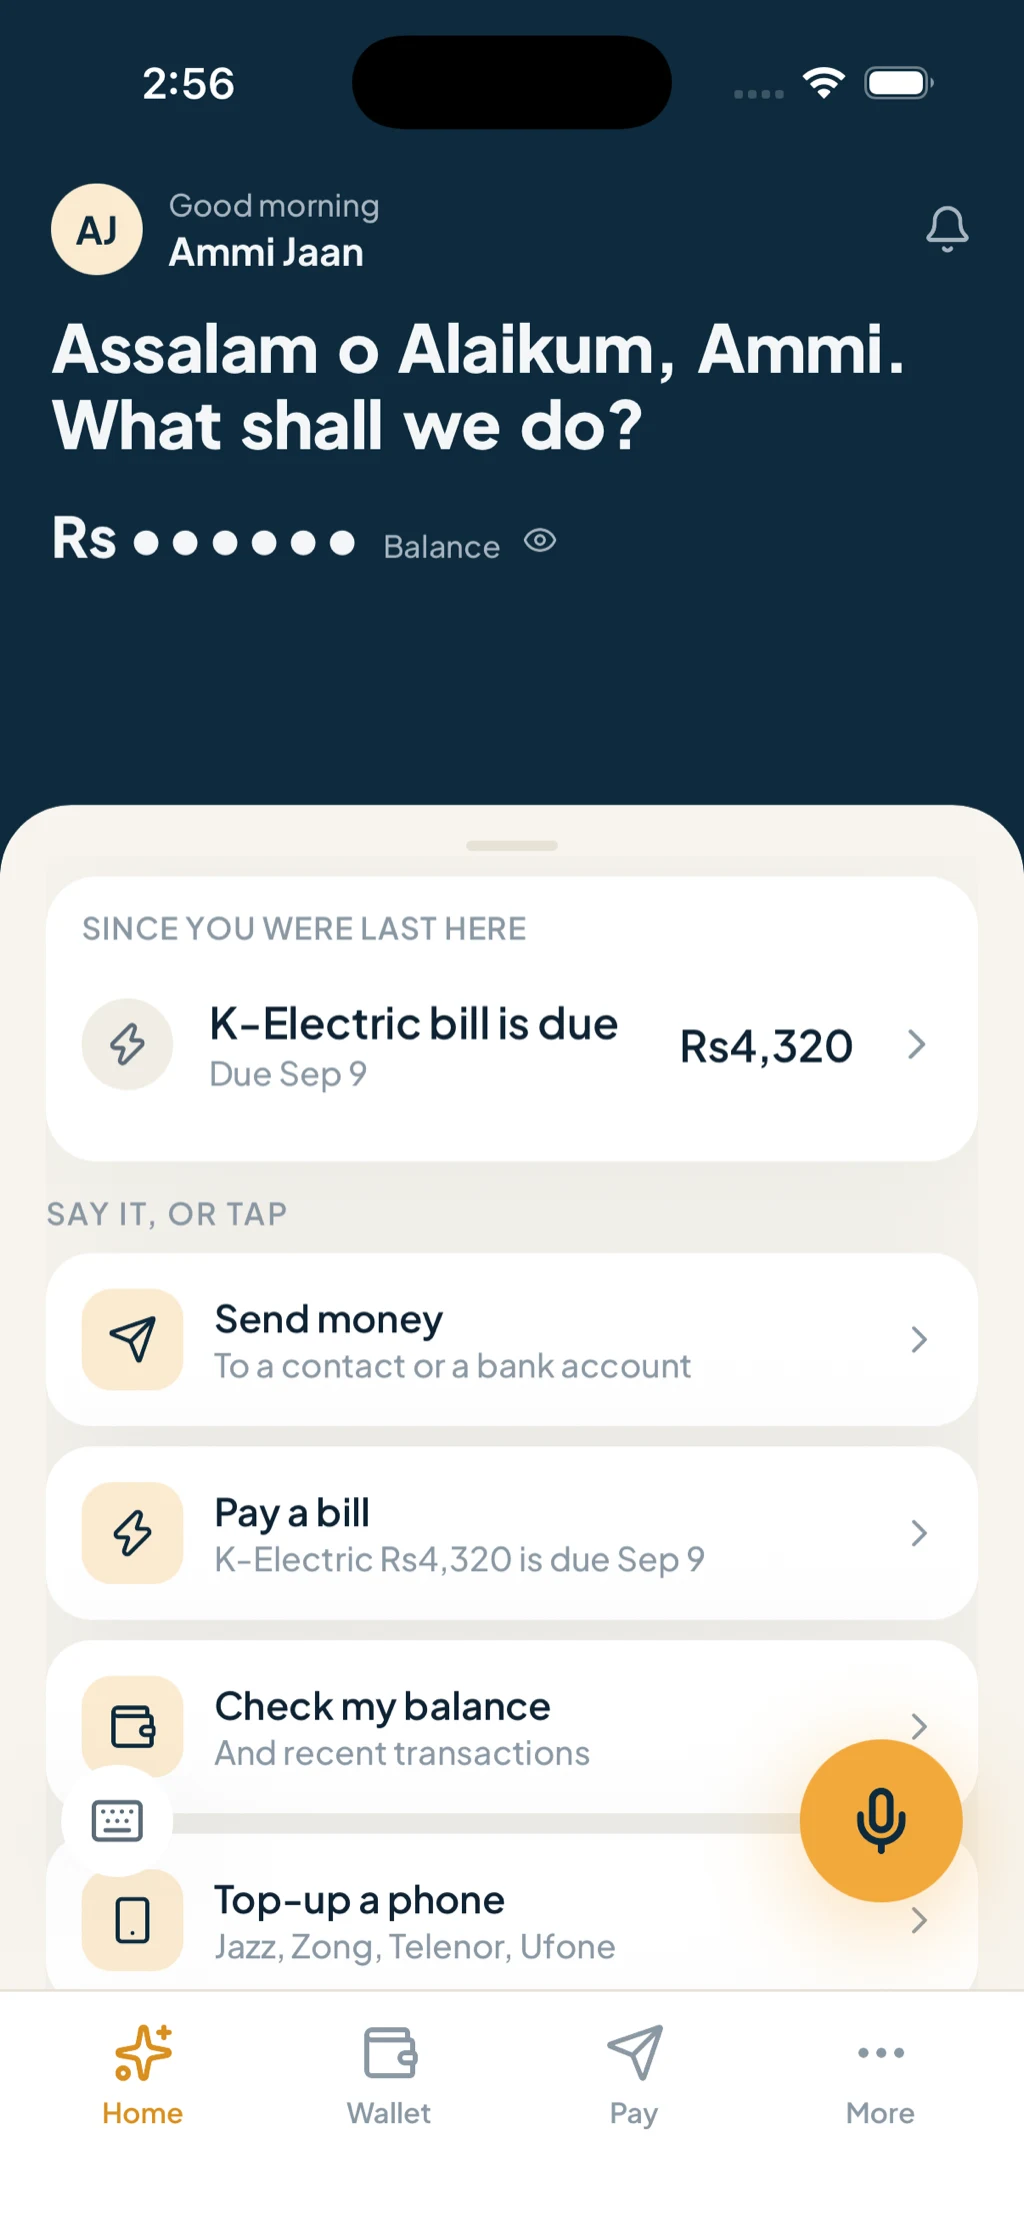
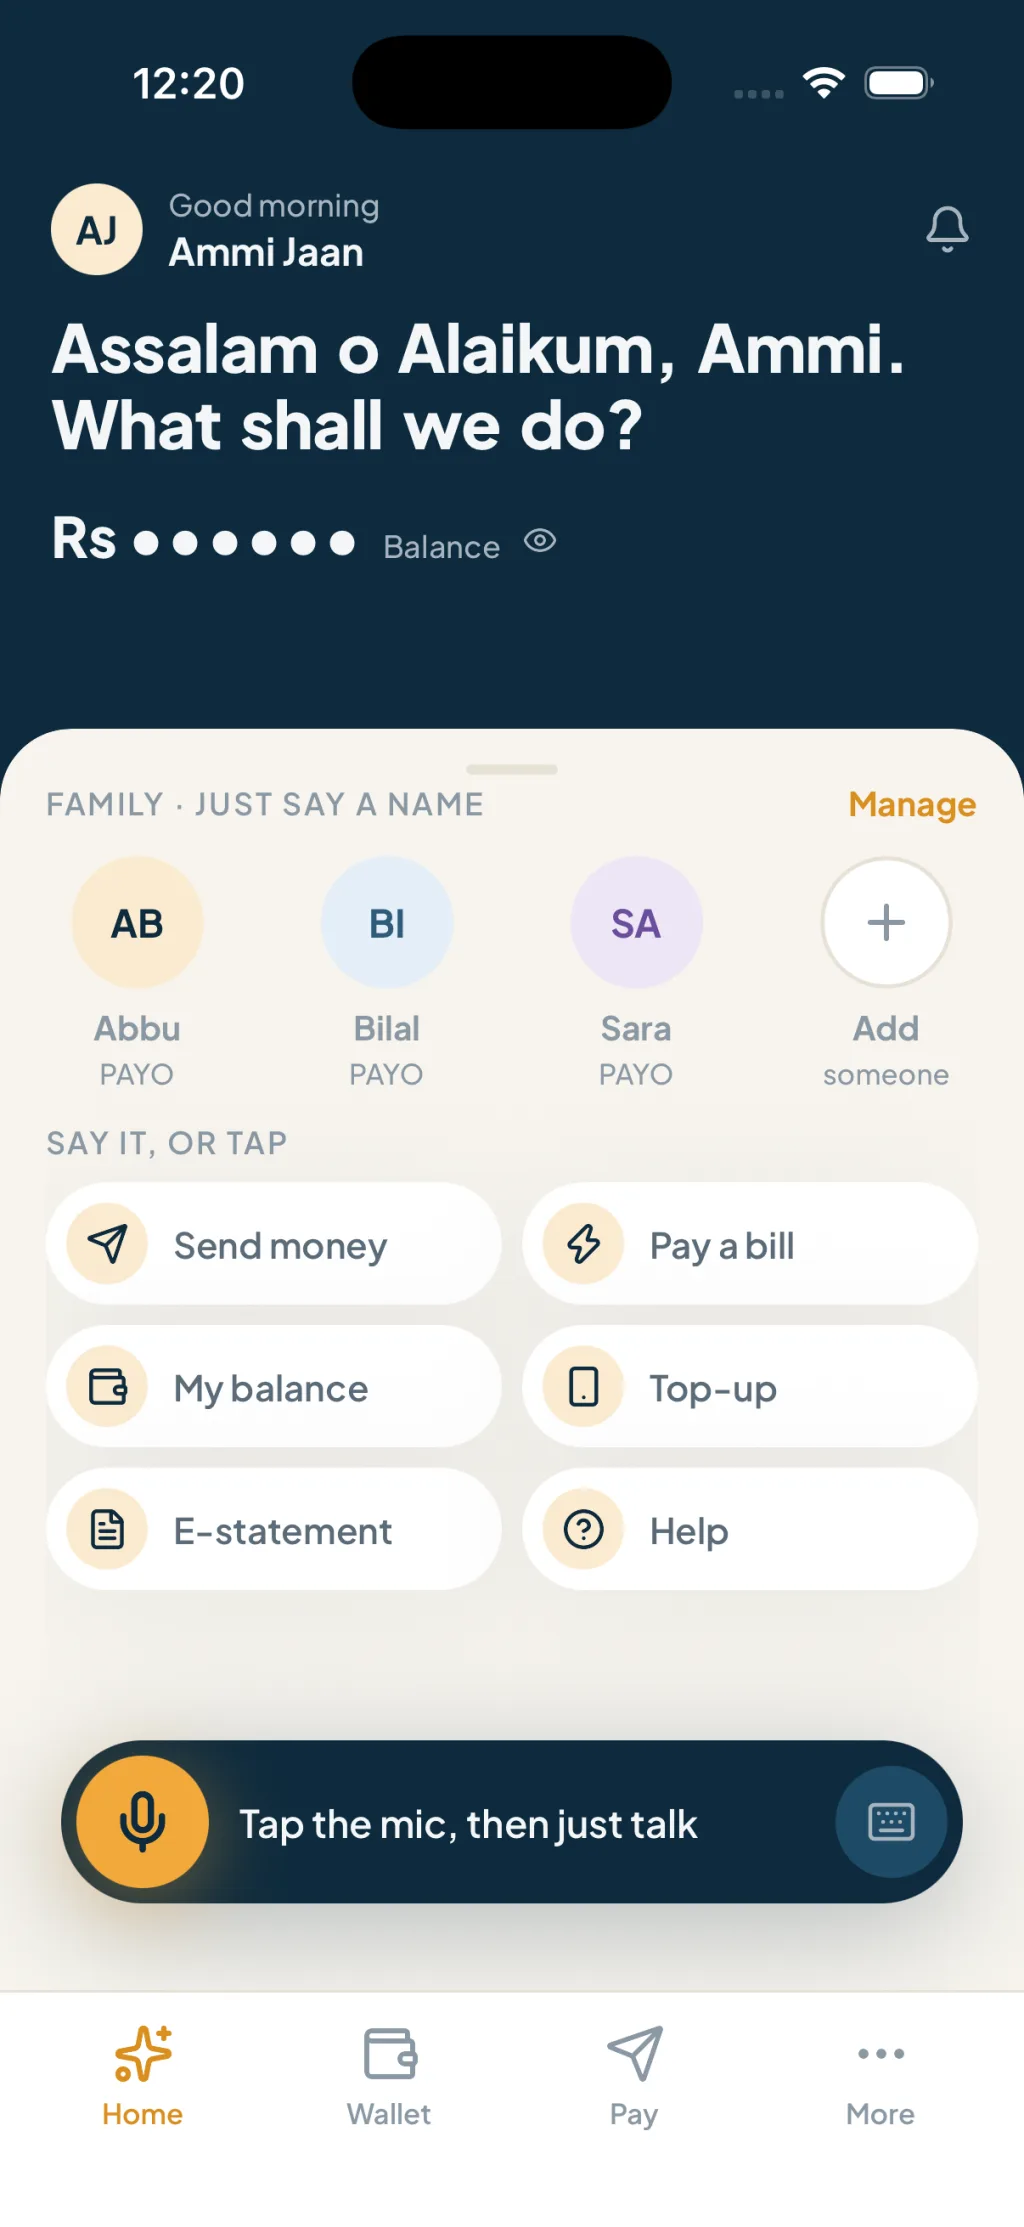
v8: saved recipient goes straight to the PIN; Urdu-script names resolve; nickname on the card; docs + site captures
AI: a single saved-recipient match with a spoken amount calls send_money in the
same turn (prompt rule + tool text + a deterministic nudge gated on 'no card
yet'); live routing gate rows F1/F2/F3 pass in English and Urdu.
Backend: GET /recipients?q= matches Urdu-script names through the linked
user's urduName; the confirmation card names a saved recipient the way the
user does ('Abbu (Abdul Rehman)'); the seeded due bill sits five days out.
Mobile: typed composer closes after sending; greet head 300; nickname
initials in the family row; shorter suggestion titles.
Docs: demo script Flows A0 (family) and S (e-statement), README v8 notes,
demo-time gotchas. Site: fresh v8 captures (home, listening, family PIN +
success, statement, wallet).

diff --git a/services/backend/src/controllers/transfersController.ts b/services/backend/src/controllers/transfersController.ts
@@ -42,12 +42,14 @@ export async function createTransfer(req: Request, res: Response) {
   const { to, amountPaisa, riskFlags: clientRiskFlags, riskTarget } = bodySchema.parse(req.body);
 
   let institutionId: string; let identifier: string; let recipientId: string | undefined;
+  let nickname: string | undefined;
   if ('recipientId' in to) {
     const r = await Recipient.findOne({ _id: to.recipientId, userId: req.userId }).catch(() => null);
     if (!r) throw new ApiError(404, 'NOT_FOUND', 'Recipient not found');
     institutionId = String(r.institutionId);
     identifier = r.identifier;
     recipientId = String(r._id);
+    nickname = r.nickname;
   } else {
     institutionId = to.institutionId;
     identifier = to.identifier;
@@ -66,8 +68,13 @@ export async function createTransfer(req: Request, res: Response) {
     identifier: resolved.identifier, title: resolved.title, linkedUserId: resolved.linkedUserId, recipientId,
   };
 
+  // v8: a saved recipient is named the way the user names them — "Abbu (Abdul Rehman)" —
+  // so the confirmation card reads back the word they said, with the account title beside it.
+  const who = nickname && nickname.toLowerCase() !== resolved.title.toLowerCase()
+    ? `${nickname} (${resolved.title})`
+    : resolved.title;
   const lines = [
-    { label: LINE_TO, value: `${resolved.title} · ${resolved.institution.name} · ${maskIdentifier(resolved.identifier)}` },
+    { label: LINE_TO, value: `${who} · ${resolved.institution.name} · ${maskIdentifier(resolved.identifier)}` },
     { label: LINE_AMOUNT, value: fmtRs(amountPaisa) },
   ];
   if (feePaisa > 0) lines.push({ label: LINE_FEE, value: fmtRs(feePaisa) });
@@ -91,8 +98,8 @@ export async function createTransfer(req: Request, res: Response) {
     amountPaisa, feePaisa,
     approval: risk.approval, riskFlags: risk.riskFlags, expiryMs: risk.expiryMs,
     summary: {
-      en: `Send ${fmtRs(amountPaisa)} to ${resolved.title}`,
-      ur: `${resolved.title} کو ${fmtRs(amountPaisa)} بھیجیں`,
+      en: `Send ${fmtRs(amountPaisa)} to ${who}`,
+      ur: `${who} کو ${fmtRs(amountPaisa)} بھیجیں`,
     },
     lines,
   });

diff --git a/services/backend/src/controllers/recipientsController.ts b/services/backend/src/controllers/recipientsController.ts
@@ -1,7 +1,7 @@
 import { Request, Response } from 'express';
 import { z } from 'zod';
 import mongoose from 'mongoose';
-import { Recipient, Institution } from '../models';
+import { Recipient, Institution, User } from '../models';
 import { ApiError } from '../lib/apiError';
 import { ok } from '../lib/respond';
 import { resolveRecipient } from '../lib/resolveRecipient';
@@ -40,6 +40,12 @@ export async function listRecipients(req: Request, res: Response) {
     // relationship (Abbu, Abba, Baba, …), so the AI can search with the word the user said.
     const aliases = relationAliases(q);
     if (aliases) or.push({ nickname: new RegExp(`^(${aliases.map(escapeRegExp).join('|')})(\\b|$)`, 'iu') });
+    // An Urdu-script query ("بلال") cannot match a Latin nickname or title, but a PAYO-linked
+    // recipient has a real user behind it whose urduName can — so "بلال کو بھیجو" finds Bilal.
+    if (/[\u0600-\u06FF]/u.test(q)) {
+      const linked = await User.find({ urduName: re }, { _id: 1 });
+      if (linked.length) or.push({ linkedUserId: { $in: linked.map((u) => u._id) } });
+    }
     filter.$or = or;
   }
   const items = await Recipient.find(filter).sort({ lastUsedAt: -1 });

diff --git a/apps/mobile/src/home/FamilyRow.tsx b/apps/mobile/src/home/FamilyRow.tsx
@@ -57,7 +57,7 @@ export function FamilyRow({ people, onIntent, testID = 'home-family' }: {
             sub={urdu && p.institution.urduName ? p.institution.urduName : p.institution.name}
             onPress={() => onIntent(t('home.family.intent', { name: p.nickname }))}
           >
-            <Avatar name={p.title || p.nickname} size={AVATAR} bg={tint(i, c).bg} color={tint(i, c).color} />
+            <Avatar name={p.nickname} size={AVATAR} bg={tint(i, c).bg} color={tint(i, c).color} />
           </PersonTile>
         ))}
         <PersonTile testID="home-family-add" label={t('home.family.add')} sub={t('home.family.addSub')} onPress={() => router.push('/send')}>
@@ -98,7 +98,7 @@ function PersonTile({ testID, label, sub, onPress, children }: {
     >
       {children}
       <Text variant="foot" weight={700} numberOfLines={1} center style={{ fontSize: 13 }}>{label}</Text>
-      <Text variant="cap" numberOfLines={1} center style={{ fontSize: 11, letterSpacing: 0, marginTop: -4 }}>{sub}</Text>
+      <Text variant="foot" numberOfLines={1} center style={{ fontSize: 11, lineHeight: 14, marginTop: -4 }}>{sub}</Text>
     </AnimatedPressable>
   );
 }

diff --git a/services/backend/src/controllers/__tests__/institutionsRecipients.test.ts b/services/backend/src/controllers/__tests__/institutionsRecipients.test.ts
@@ -1,7 +1,7 @@
 import request from 'supertest';
 import { createApp } from '../../app';
 import { createVerifiedUser } from '../../testUtils/factories';
-import { Institution, Recipient } from '../../models';
+import { Institution, Recipient, User } from '../../models';
 
 const app = createApp();
 
@@ -133,6 +133,9 @@ test('recipients search understands family words: ?q=father finds the nickname "
   }
   // A relationship nobody is saved under finds nothing — never a guess.
   expect((await get('brother')).body.data.items).toHaveLength(0);
+  // An Urdu-script name reaches a PAYO-linked recipient through the linked user's urduName.
+  await User.updateOne({ _id: friend.userId }, { $set: { urduName: 'منصف' } });
+  expect((await get('منصف')).body.data.items.map((i: { nickname: string }) => i.nickname)).toEqual(['Munsif']);
   // Plain nicknames still match as before.
   expect((await get('munsif')).body.data.items).toHaveLength(1);
 });

diff --git a/apps/mobile/src/home/__tests__/homeState.test.ts b/apps/mobile/src/home/__tests__/homeState.test.ts
@@ -7,14 +7,14 @@ const at = (mode: Parameters<typeof headStatus>[0], messageCount: number, record
 const SHEET_OVERLAP = 14;
 
 test('head heights are the artboards navy heights', () => {
-  expect(HEAD_HEIGHT).toEqual({ greet: 330, listening: 350, conversation: 230 });
-  expect(headHeight('greet')).toBe(330);
+  expect(HEAD_HEIGHT).toEqual({ greet: 300, listening: 350, conversation: 230 });
+  expect(headHeight('greet')).toBe(300);
   expect(headHeight('listening')).toBe(350);
   expect(headHeight('conversation')).toBe(230);
 });
 
 test('the sheet lands on each artboards sheet top once it overlaps the head', () => {
-  expect(headHeight('greet') - SHEET_OVERLAP).toBe(316);
+  expect(headHeight('greet') - SHEET_OVERLAP).toBe(286);
   expect(headHeight('listening') - SHEET_OVERLAP).toBe(336);
   expect(headHeight('conversation') - SHEET_OVERLAP).toBe(216);
 });

diff --git a/services/backend/src/seed/seed.ts b/services/backend/src/seed/seed.ts
@@ -119,7 +119,9 @@ export async function runSeed() {
   await Bill.create({
     billerId: kElectric._id, consumerNo: AMMI.dueBillConsumerNo,
     consumerName: ammi.name, amountPaisa: AMMI.dueBillAmountPaisa,
-    dueDate: new Date(now.getFullYear(), now.getMonth(), 10),
+    // Five days out, so the digest and the Pay tile always say "due in a few days" on
+    // demo day rather than a date that has already passed.
+    dueDate: new Date(now.getFullYear(), now.getMonth(), now.getDate() + 5, 12, 0),
     month: `${now.getFullYear()}-${String(now.getMonth()).padStart(2, '0')}`,
     status: 'due',
     userId: ammi._id,

diff --git a/apps/mobile/src/home/homeState.ts b/apps/mobile/src/home/homeState.ts
@@ -12,7 +12,9 @@ export type HomeState = 'greet' | 'listening' | 'conversation';
  *  it: 330/316, 350/336, 230/216. These are the NAVY heights, so Home's
  *  `marginTop: -SHEET_OVERLAP` lands the sheet on the artboard's top edge. */
 export const HEAD_HEIGHT: Record<HomeState, number> = {
-  greet: 330,
+  // v8: the family row joined the sheet, so the greet head gives back 30 pt
+  // of the artboard's empty navy (330 → 300). Listening/conversation unchanged.
+  greet: 300,
   listening: 350,
   conversation: 230,
 };

diff --git a/apps/mobile/app/(tabs)/index.tsx b/apps/mobile/app/(tabs)/index.tsx
@@ -112,6 +112,9 @@ export default function Home() {
     const text = draft.trim();
     if (!text) return;
     setDraft('');
+    // v8: the keyboard goes away with the message, so the reply (and the PIN sheet
+    // that may follow) lands on a clear screen instead of under the keyboard.
+    setInputOpen(false);
     // Typing hands the conversation back to tap-per-turn (spec §1 rule 6).
     loop.onTextSend(text);
   };

diff --git a/services/ai/app/tools.py b/services/ai/app/tools.py
@@ -396,9 +396,16 @@ async def search_recipients(client: BackendClient, query: str) -> Result:
         )
     if len(items) == 1:
         r = items[0]
+        # A saved recipient needs no recipient card and no "shall I send?" — the
+        # confirmation card IS the question (live smoke F1/F2: the model narrated
+        # "please confirm on the card" and called nothing).
         return _ok(
-            f"Found one saved recipient: {r['nickname']} ({r['title']}) at {r['institution']['name']} — "
-            f"{r['identifier']}, recipient_id {r['id']}."
+            f"Found exactly one saved recipient: {r['nickname']} ({r['title']}) at {r['institution']['name']} — "
+            f"{r['identifier']}, recipient_id {r['id']}. NEXT STEP, in this same turn: if the user already "
+            f"said an amount, call send_money(amount_paisa=<amount in paisa>, recipient_id='{r['id']}') NOW — "
+            f"do NOT ask 'shall I send?', do NOT call resolve_recipient, do NOT say 'confirm on the card' "
+            f"before send_money has run (the confirmation card it creates is the user's confirmation). "
+            f"If no amount was given, ask only for the amount."
         )
     chips = [
         RecipientChip(

diff --git a/services/ai/scripts/ai-smoke.py b/services/ai/scripts/ai-smoke.py
@@ -118,6 +118,11 @@ ROWS = [
      "list_transactions", "transactions", None),
     ("B3", "Show my saved billers", "میرے محفوظ بلر دکھائیں", "list_saved_billers", "billers", None),
     ("B4", "I want to top up a phone", "مجھے موبائل لوڈ کرانا ہے", "list_telcos", "telco_chips", None),
+    # v8 family: "my father" resolves through the backend's relation aliases to the seeded
+    # saved recipient "Abbu" — one match, so the assistant goes straight to the amount.
+    ("F1", "Send 2,000 rupees to my father", "ابو کو دو ہزار روپے بھیجو", "send_money", "confirmation", None),
+    ("F2", "Send 500 rupees to Bilal", "بلال کو پانچ سو روپے بھیجو", "send_money", "confirmation", None),
+    ("F3", "Generate my e-statement for last month", "پچھلے مہینے کی ای اسٹیٹمنٹ بنا دو", "get_statement", "statement", None),
     ("P1", "Show my savings pockets", "میری بچت پاکٹس دکھائیں", "list_pockets", "pockets", None),
     ("P2", "Make a Hajj pocket with a goal of two lakh", "دو لاکھ کے ہدف والی حج پاکٹ بنائیں",
      "create_pocket", "pocket", None),
